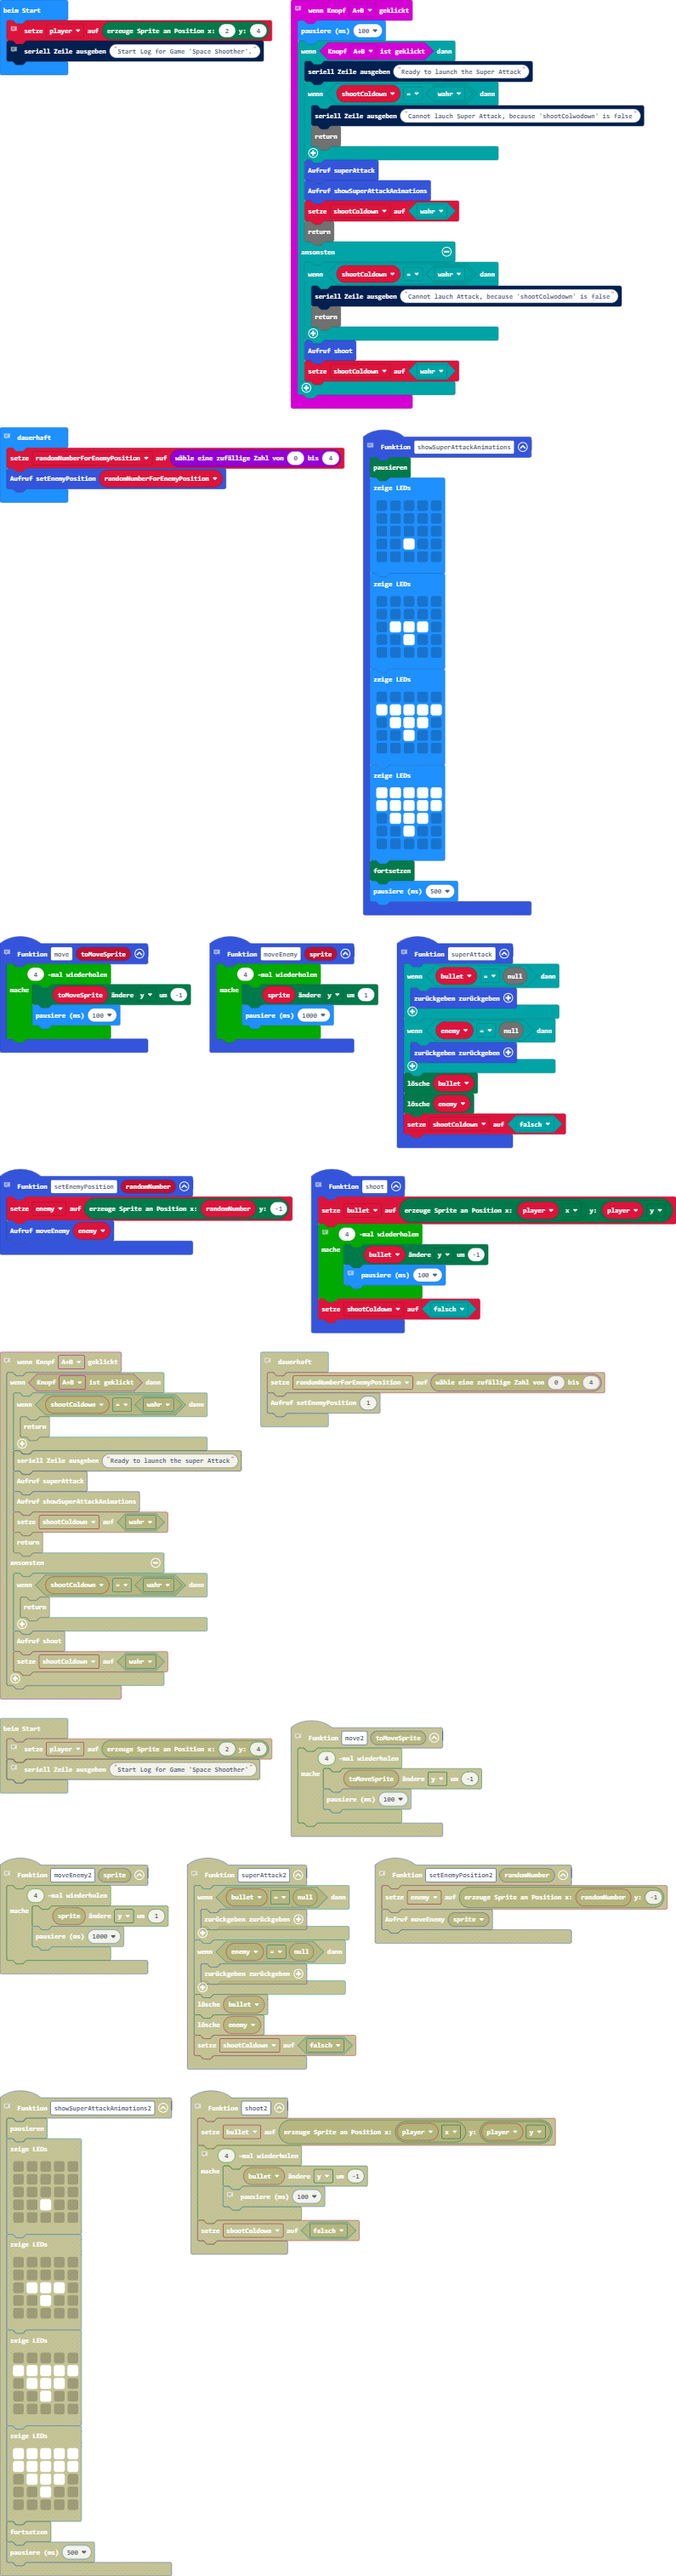
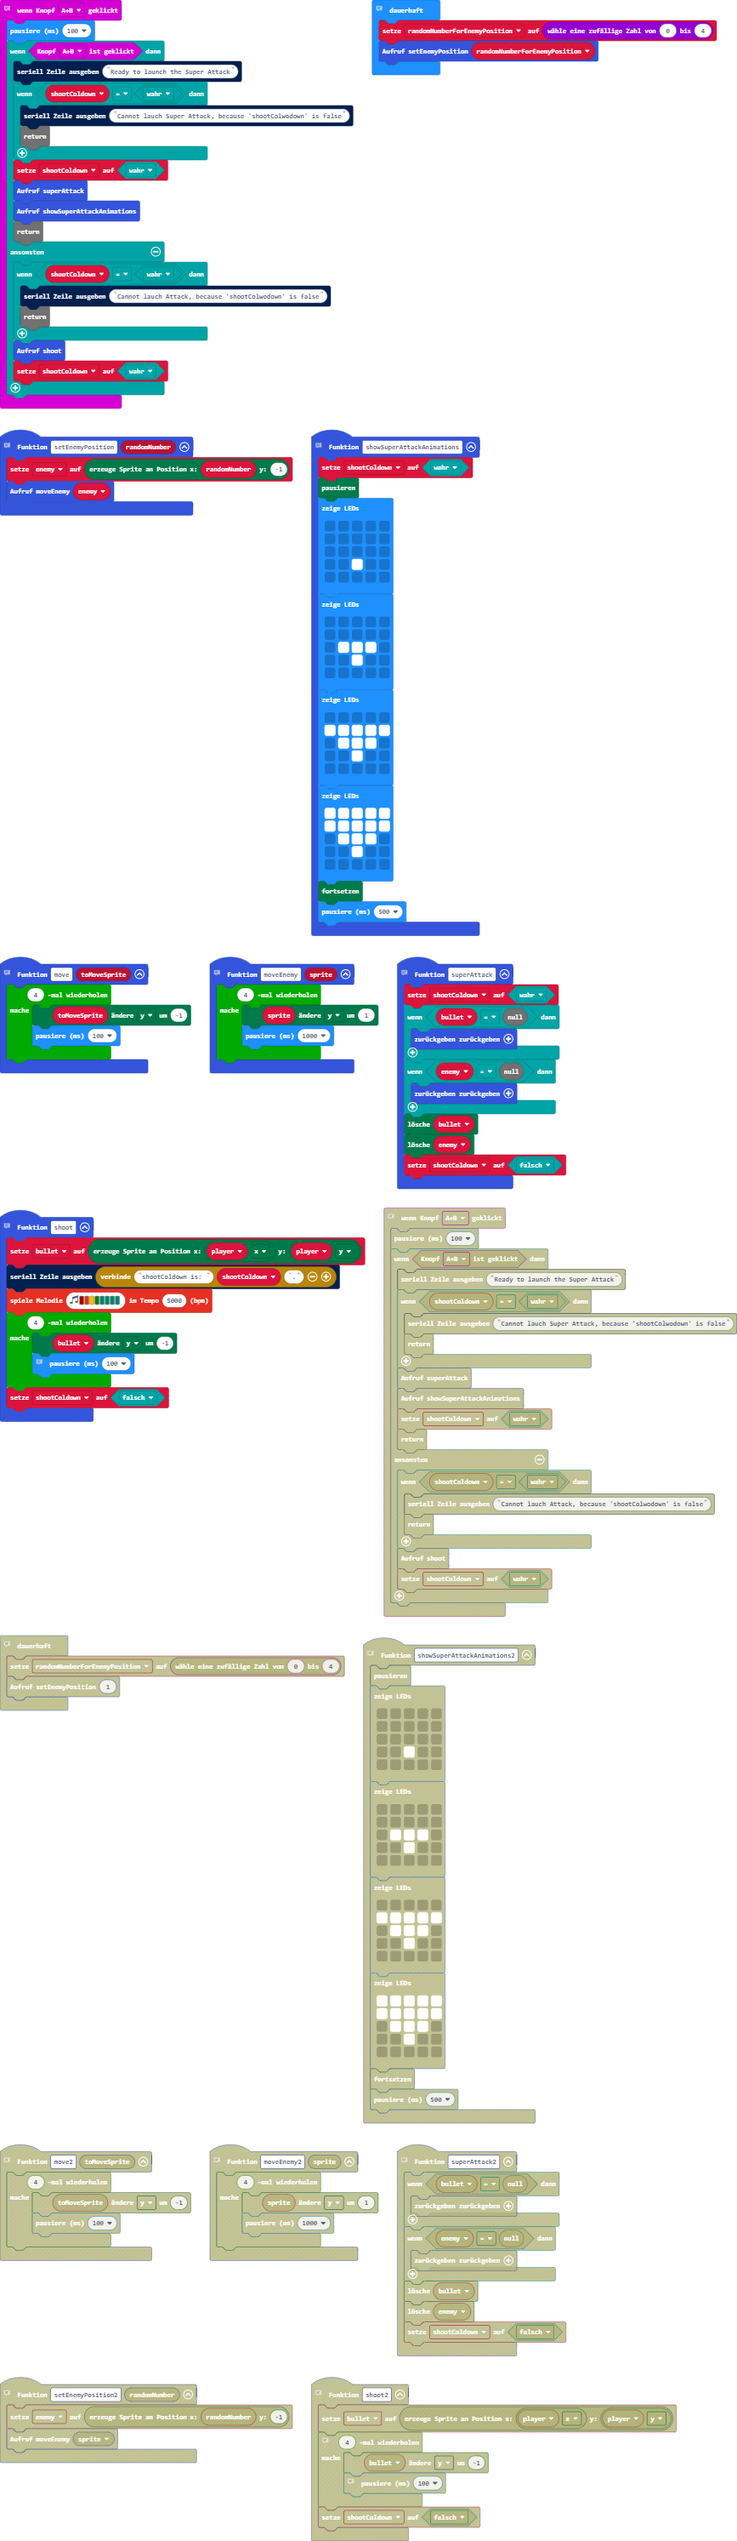
Aktualisiere pxt.json, main.blocks, main.ts

diff --git a/main.ts b/main.ts
@@ -47,7 +47,8 @@ function moveEnemy (sprite: game.LedSprite) {
 // Change the Y - Coordinate of the bullet to simulate a shoot Animation
 function shoot () {
     bullet = game.createSprite(player.get(LedSpriteProperty.X), player.get(LedSpriteProperty.Y))
-    // music.playMelody("C5 B A G F F F F ", 5000)
+    serial.writeLine("shootColdown is: " + shootColdown + ".")
+    music.playMelody("C5 B A G F F F F ", 5000)
     for (let index = 0; index < 4; index++) {
         bullet.change(LedSpriteProperty.Y, -1)
         // bullet.setBrightness(80)
@@ -66,7 +67,6 @@ function superAttack () {
     }
     bullet.delete()
     enemy.delete()
-    basic.pause(100)
     shootColdown = false
 }
 // Input for Button 'AB'
@@ -78,9 +78,9 @@ input.onButtonPressed(Button.AB, function () {
             serial.writeLine("Cannot lauch Super Attack, because 'shootColwodown' is false")
             return
         }
+        shootColdown = true
         superAttack()
         showSuperAttackAnimations()
-        shootColdown = true
         return
     } else {
         if (shootColdown == true) {
@@ -109,22 +109,13 @@ function setEnemyPosition (randomNumber: number) {
 }
 let randomNumberForEnemyPosition = 0
 let enemy: game.LedSprite = null
-let shootColdown = false
 let bullet: game.LedSprite = null
+let shootColdown = false
 let player: game.LedSprite = null
 // Create Player
 player = game.createSprite(2, 4)
 // Log
 serial.writeLine("Start Log for Game 'Space Shoother'.")
-basic.forever(function () {
-    if (enemy == null) {
-        return
-    }
-    if (enemy.get(LedSpriteProperty.Y) == 4) {
-        enemy.delete()
-        shootColdown = false
-    }
-})
 // Forever function for spawning Enemys with a random Position
 basic.forever(function () {
     randomNumberForEnemyPosition = randint(0, 4)
@@ -149,5 +140,14 @@ basic.forever(function () {
         bullet.delete()
         enemy.delete()
         music.playMelody("C C D C C C D C ", 4500)
+    }
+})
+basic.forever(function () {
+    if (enemy == null) {
+        return
+    }
+    if (enemy.get(LedSpriteProperty.Y) == 4) {
+        enemy.delete()
+        shootColdown = false
     }
 })
